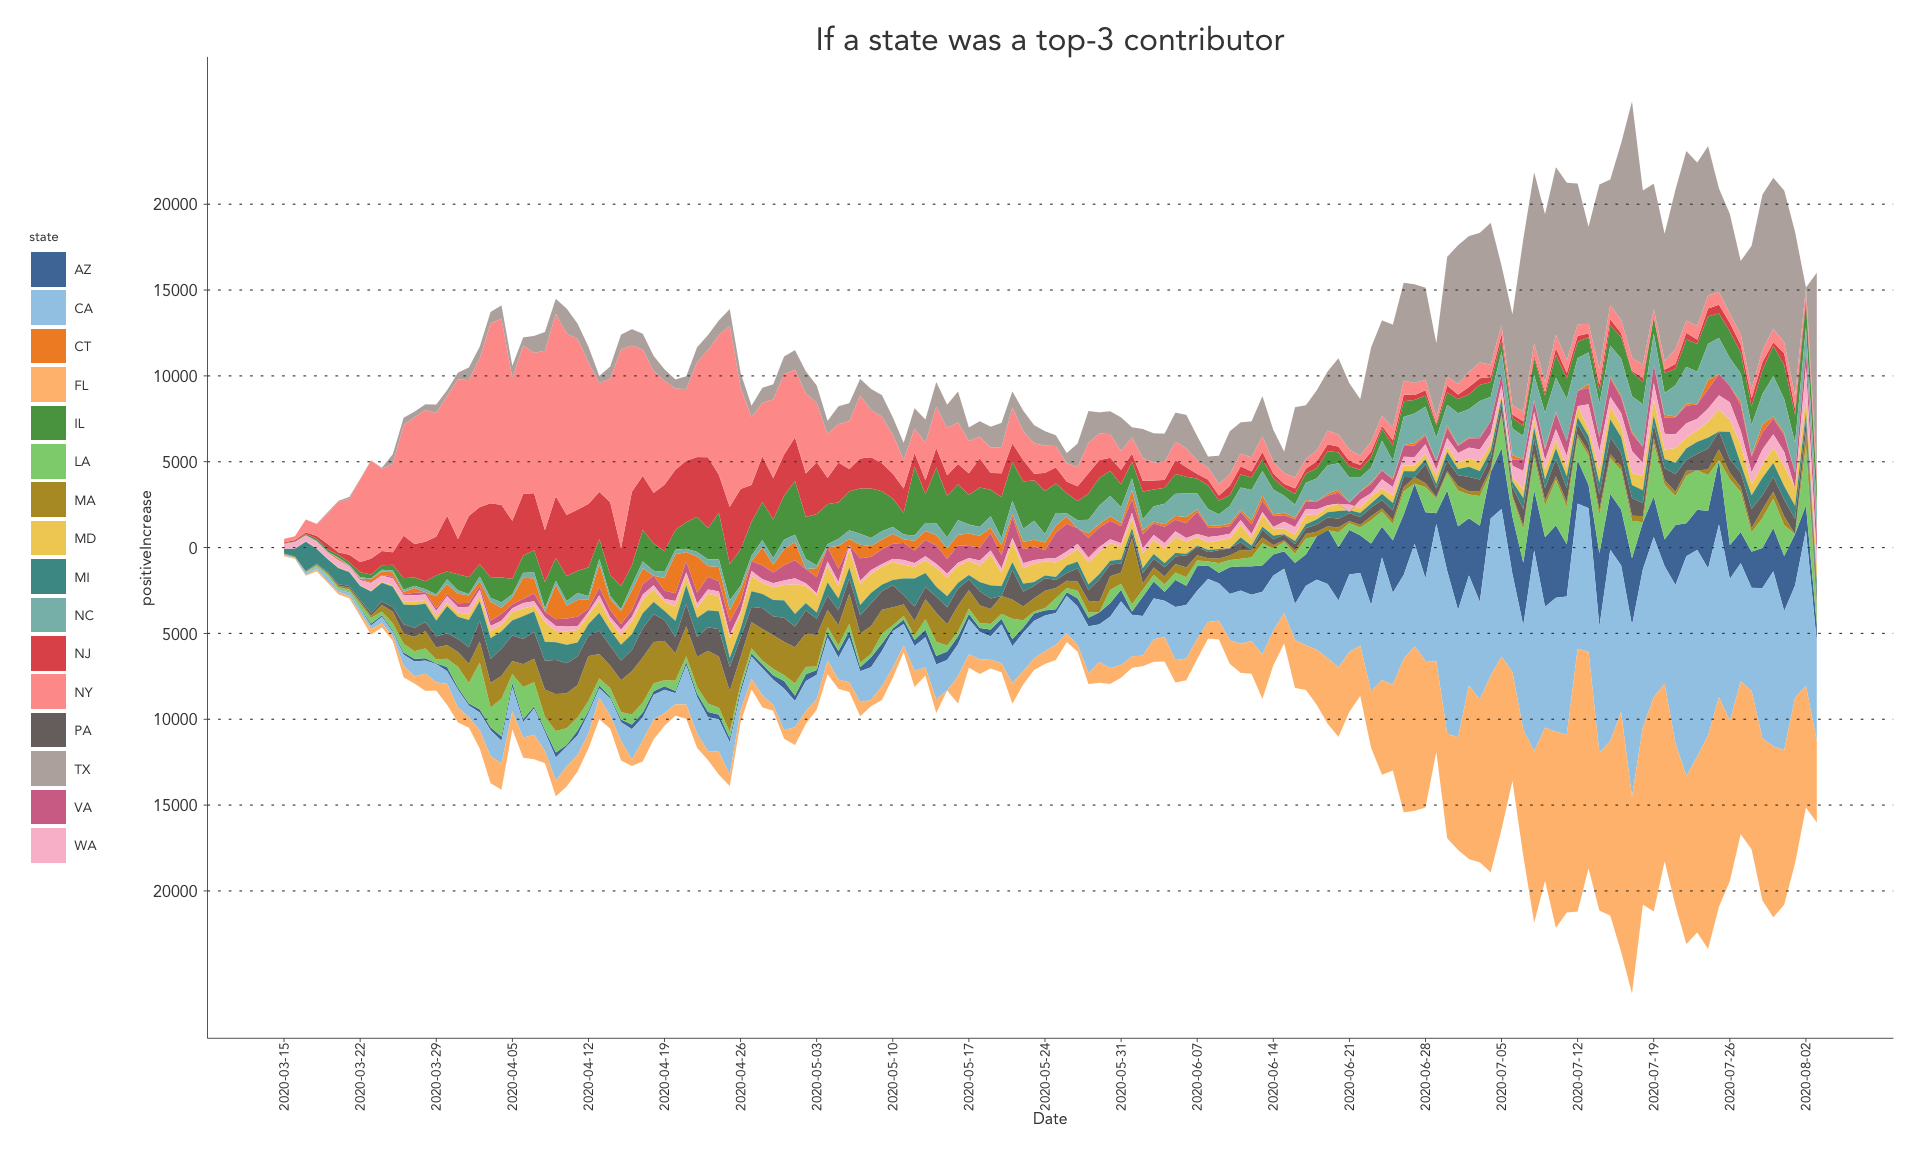
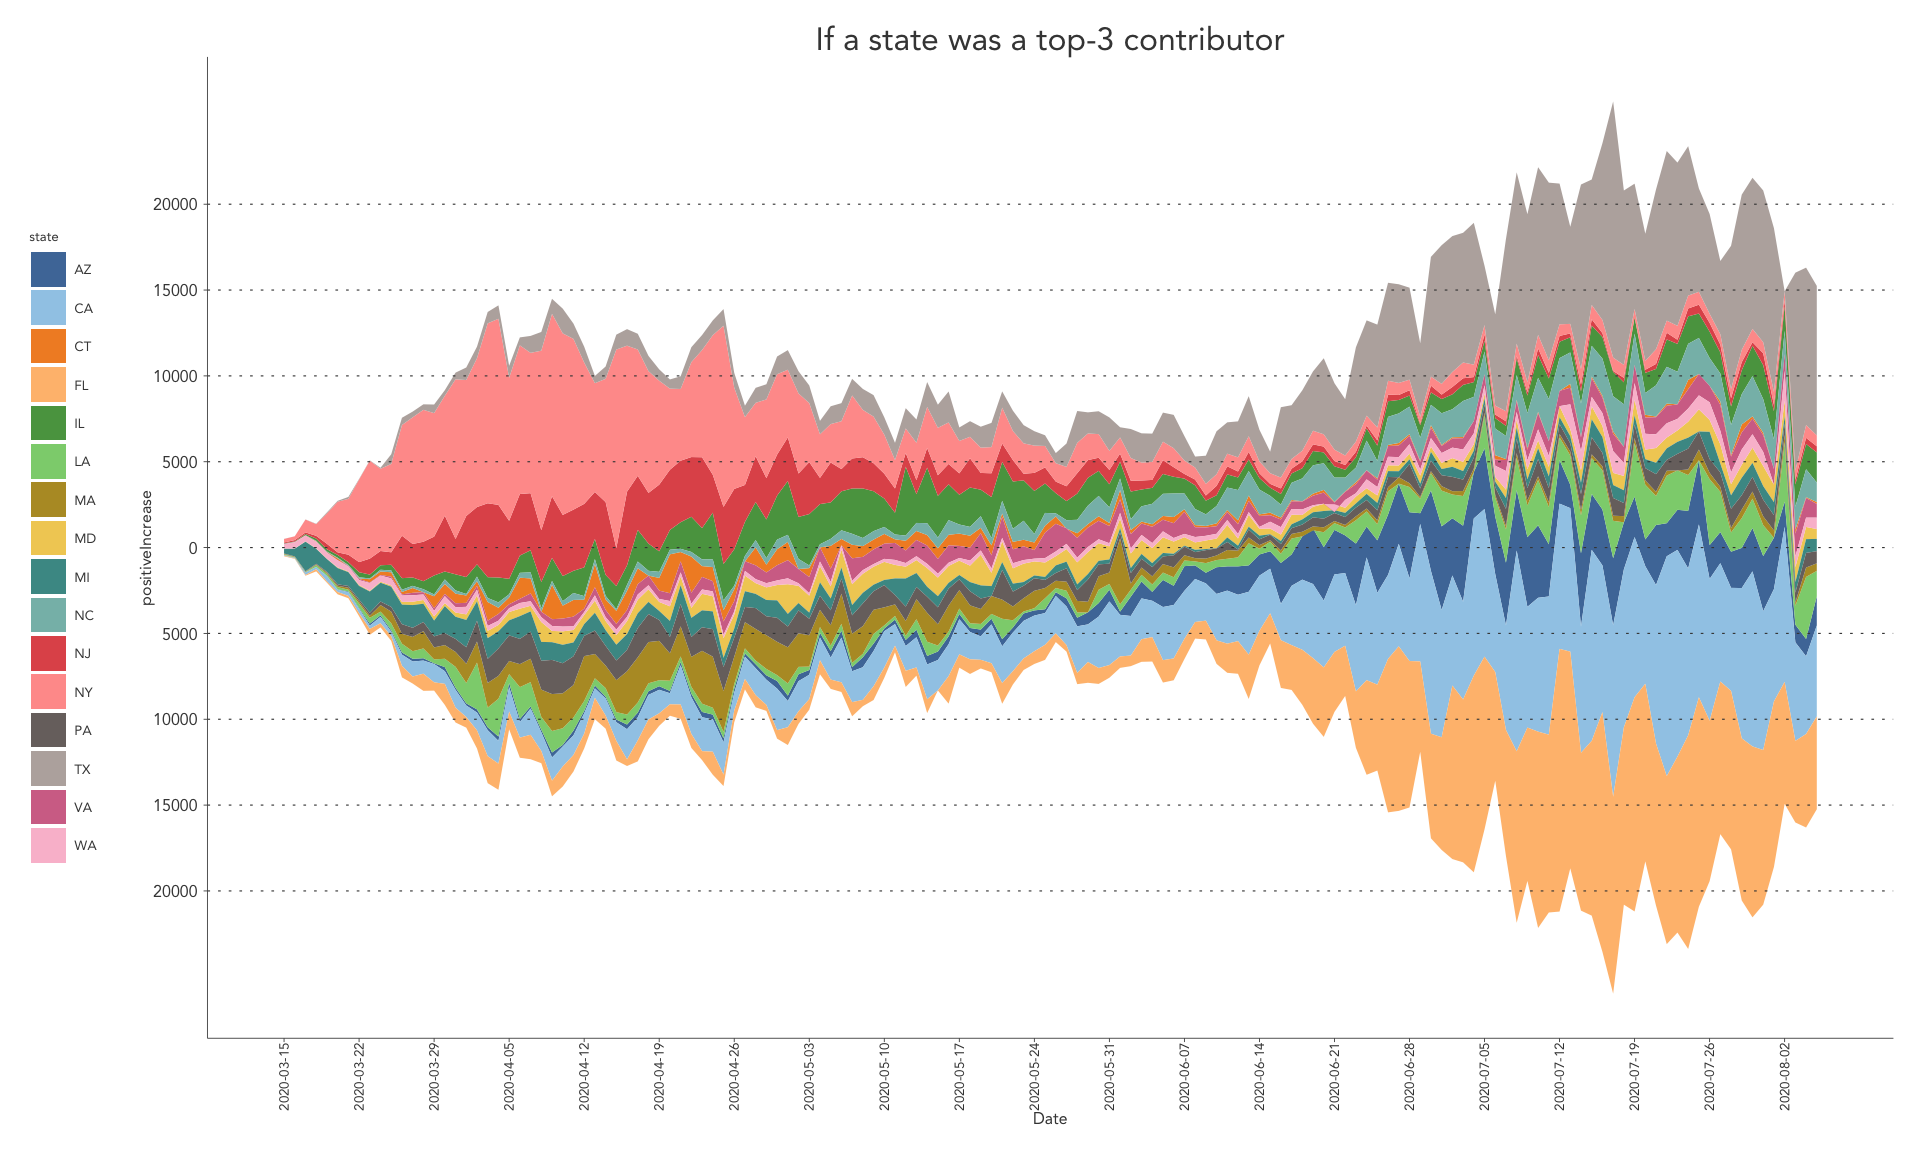
0805 up

diff --git a/covid19-vis.html b/covid19-vis.html
@@ -311,16 +311,16 @@ population
 <tbody>
 <tr>
 <td style="text-align:left;">
-2020-08-03
+2020-08-05
 </td>
 <td style="text-align:left;">
 AK
 </td>
 <td style="text-align:right;">
-4064
+4183
 </td>
 <td style="text-align:right;">
-241743
+253096
 </td>
 <td style="text-align:right;">
 0
@@ -338,25 +338,25 @@ AK
 0
 </td>
 <td style="text-align:right;">
-4
+2
 </td>
 <td style="text-align:right;">
 0
 </td>
 <td style="text-align:right;">
-946
+1017
 </td>
 <td style="text-align:left;">
 A
 </td>
 <td style="text-align:left;">
-8/3/2020 00:00
+8/5/2020 00:00
 </td>
 <td style="text-align:left;">
-2020-08-03T00:00:00Z
+2020-08-05T00:00:00Z
 </td>
 <td style="text-align:left;">
-08/02 20:00
+08/04 20:00
 </td>
 <td style="text-align:right;">
 25
@@ -365,19 +365,19 @@ A
 0
 </td>
 <td style="text-align:left;">
-2020-08-03T00:00:00Z
+2020-08-05T00:00:00Z
 </td>
 <td style="text-align:right;">
-245807
-</td>
-<td style="text-align:right;">
-0
+257279
 </td>
 <td style="text-align:right;">
 0
 </td>
 <td style="text-align:right;">
-4064
+0
+</td>
+<td style="text-align:right;">
+4183
 </td>
 <td style="text-align:right;">
 25
@@ -389,31 +389,31 @@ A
 2
 </td>
 <td style="text-align:right;">
-80
+58
 </td>
 <td style="text-align:right;">
-2637
+4572
 </td>
 <td style="text-align:right;">
-245807
+257279
 </td>
 <td style="text-align:right;">
-245807
+257279
 </td>
 <td style="text-align:right;">
-2717
+4630
 </td>
 <td style="text-align:right;">
-245807
+257279
 </td>
 <td style="text-align:right;">
-1
+0
 </td>
 <td style="text-align:right;">
 0
 </td>
 <td style="text-align:left;">
-890afec5cf195d314c578f8709ac457553a5acdb
+0a85599b284b6519c9ef59c495ee7e02bb9160a5
 </td>
 <td style="text-align:right;">
 0
@@ -439,64 +439,64 @@ A
 </tr>
 <tr>
 <td style="text-align:left;">
-2020-08-03
+2020-08-05
 </td>
 <td style="text-align:left;">
 AL
 </td>
 <td style="text-align:right;">
-92661
+94654
 </td>
 <td style="text-align:right;">
-621390
-</td>
-<td style="text-align:right;">
-0
-</td>
-<td style="text-align:right;">
-1517
-</td>
-<td style="text-align:right;">
-10865
+632806
 </td>
 <td style="text-align:right;">
 0
 </td>
 <td style="text-align:right;">
-1153
+1575
+</td>
+<td style="text-align:right;">
+11100
 </td>
 <td style="text-align:right;">
 0
 </td>
 <td style="text-align:right;">
-619
+1200
 </td>
 <td style="text-align:right;">
-35401
+0
+</td>
+<td style="text-align:right;">
+645
+</td>
+<td style="text-align:right;">
+37923
 </td>
 <td style="text-align:left;">
 B
 </td>
 <td style="text-align:left;">
-8/3/2020 11:00
+8/5/2020 11:00
 </td>
 <td style="text-align:left;">
-2020-08-03T11:00:00Z
+2020-08-05T11:00:00Z
 </td>
 <td style="text-align:left;">
-08/03 07:00
+08/05 07:00
 </td>
 <td style="text-align:right;">
-1633
+1695
 </td>
 <td style="text-align:right;">
-10865
+11100
 </td>
 <td style="text-align:left;">
-2020-08-03T11:00:00Z
+2020-08-05T11:00:00Z
 </td>
 <td style="text-align:right;">
-711317
+724582
 </td>
 <td style="text-align:right;">
 0
@@ -505,43 +505,43 @@ B
 0
 </td>
 <td style="text-align:right;">
-89927
+91776
 </td>
 <td style="text-align:right;">
-1580
+1639
 </td>
 <td style="text-align:right;">
-53
+56
 </td>
 <td style="text-align:right;">
 1
 </td>
 <td style="text-align:right;">
-1217
+952
 </td>
 <td style="text-align:right;">
-6764
+4207
 </td>
 <td style="text-align:right;">
-714051
+727460
 </td>
 <td style="text-align:right;">
-714051
+727460
 </td>
 <td style="text-align:right;">
-7981
+5159
 </td>
 <td style="text-align:right;">
-714051
+727460
 </td>
 <td style="text-align:right;">
-6
+29
 </td>
 <td style="text-align:right;">
-344
+0
 </td>
 <td style="text-align:left;">
-e2c9f30805eee72254984ba76c01fd4d5d4baca4
+672da264092f08c418d1945dcb919436e9d82d2f
 </td>
 <td style="text-align:right;">
 0
@@ -567,64 +567,64 @@ e2c9f30805eee72254984ba76c01fd4d5d4baca4
 </tr>
 <tr>
 <td style="text-align:left;">
-2020-08-03
+2020-08-05
 </td>
 <td style="text-align:left;">
 AR
 </td>
 <td style="text-align:right;">
-44597
+46293
 </td>
 <td style="text-align:right;">
-482803
-</td>
-<td style="text-align:right;">
-0
-</td>
-<td style="text-align:right;">
-513
-</td>
-<td style="text-align:right;">
-2966
+488518
 </td>
 <td style="text-align:right;">
 0
 </td>
 <td style="text-align:right;">
+516
+</td>
+<td style="text-align:right;">
+3118
+</td>
+<td style="text-align:right;">
 0
 </td>
 <td style="text-align:right;">
-108
+0
 </td>
 <td style="text-align:right;">
-403
+106
 </td>
 <td style="text-align:right;">
-37240
+424
+</td>
+<td style="text-align:right;">
+38848
 </td>
 <td style="text-align:left;">
 A
 </td>
 <td style="text-align:left;">
-8/3/2020 14:50
+8/5/2020 15:00
 </td>
 <td style="text-align:left;">
-2020-08-03T14:50:00Z
+2020-08-05T15:00:00Z
 </td>
 <td style="text-align:left;">
-08/03 10:50
+08/05 11:00
 </td>
 <td style="text-align:right;">
-475
+508
 </td>
 <td style="text-align:right;">
-2966
+3118
 </td>
 <td style="text-align:left;">
-2020-08-03T14:50:00Z
+2020-08-05T15:00:00Z
 </td>
 <td style="text-align:right;">
-527400
+533899
 </td>
 <td style="text-align:right;">
 0
@@ -633,7 +633,7 @@ A
 0
 </td>
 <td style="text-align:right;">
-44597
+46293
 </td>
 <td style="text-align:right;">
 0
@@ -645,31 +645,31 @@ A
 5
 </td>
 <td style="text-align:right;">
-1424
+912
 </td>
 <td style="text-align:right;">
-11395
+0
 </td>
 <td style="text-align:right;">
-527400
+534811
 </td>
 <td style="text-align:right;">
-527400
+534811
 </td>
 <td style="text-align:right;">
-12819
+912
 </td>
 <td style="text-align:right;">
-527400
+534811
 </td>
 <td style="text-align:right;">
-17
+18
 </td>
 <td style="text-align:right;">
-72
+64
 </td>
 <td style="text-align:left;">
-a5dde28205d14b46b4ca50a97b96cef8c6a3770e
+0107ebdd259742ace565a9f4b295ed4bcf579cc3
 </td>
 <td style="text-align:right;">
 0
